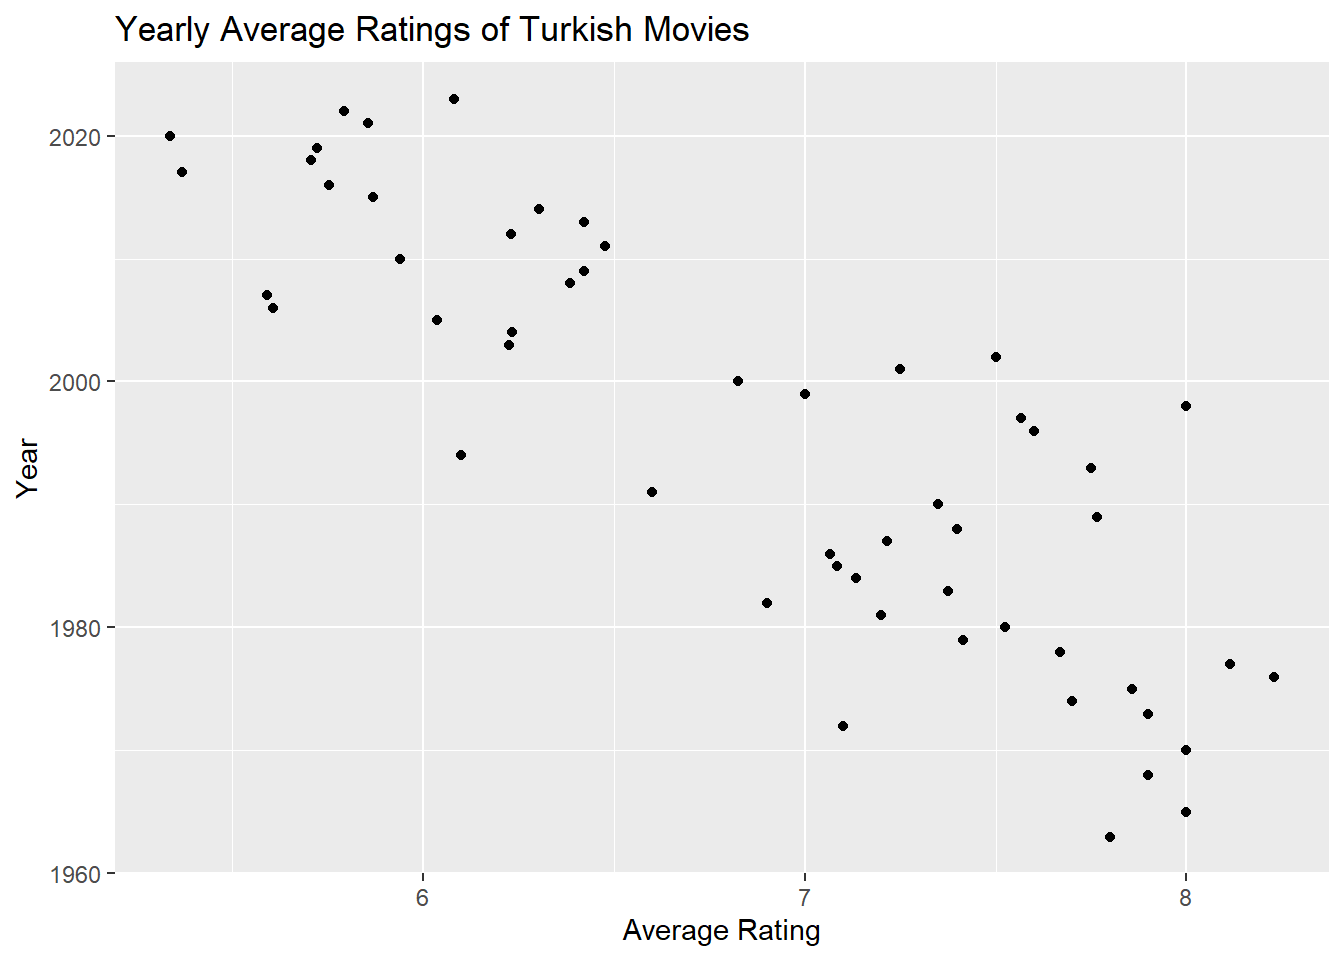
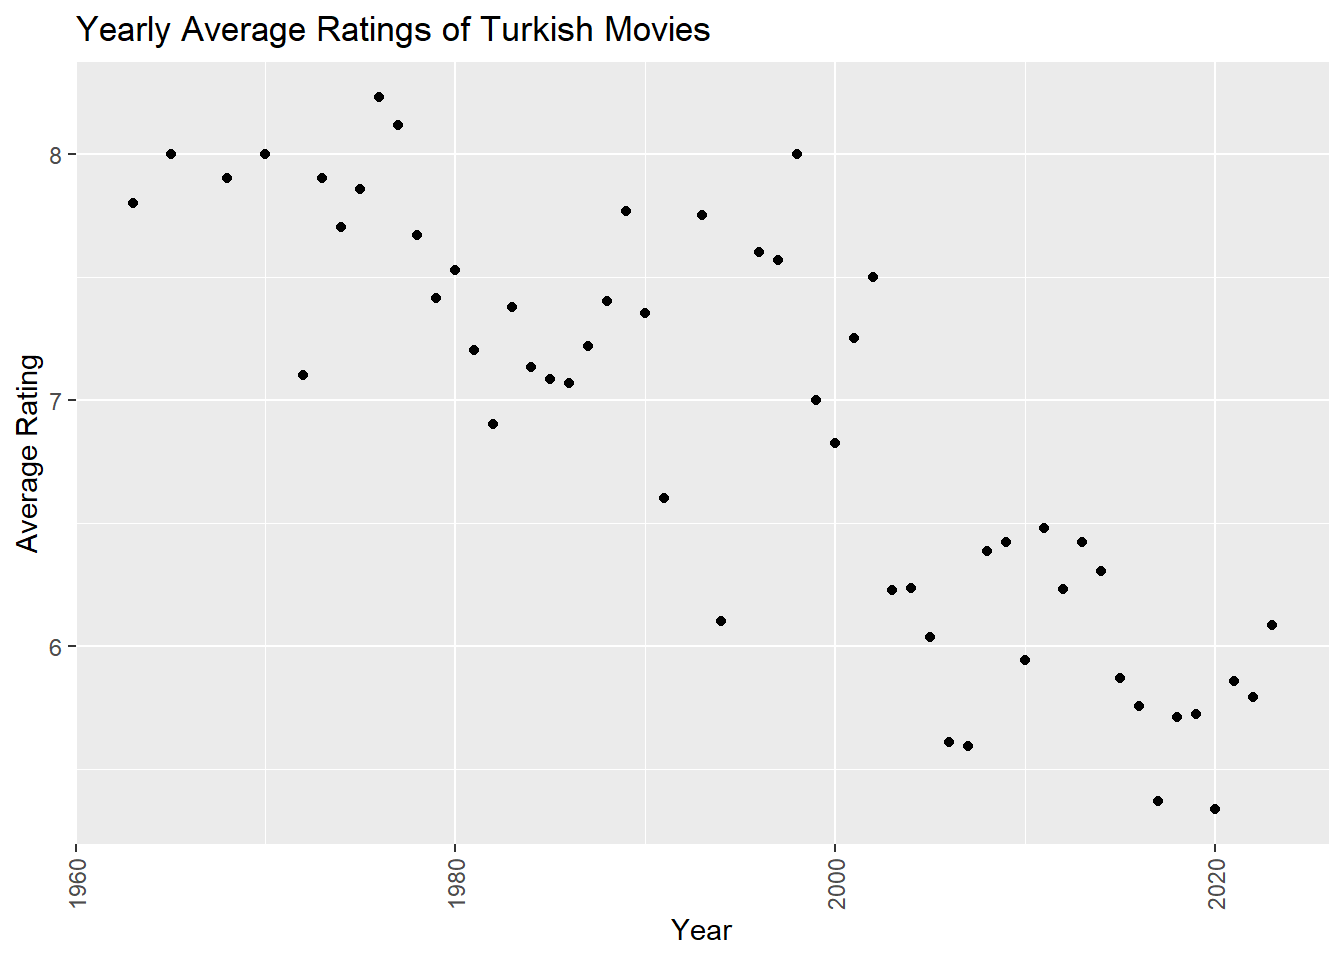
ass34

diff --git a/docs/assignments/assignment-2.html b/docs/assignments/assignment-2.html
@@ -389,9 +389,10 @@ pre > code.sourceCode > span > a:first-child::before { text-decoration: underlin
 <span id="cb9-2"><a href="#cb9-2" aria-hidden="true" tabindex="-1"></a>  <span class="fu">group_by</span>(Year) <span class="sc">%&gt;%</span></span>
 <span id="cb9-3"><a href="#cb9-3" aria-hidden="true" tabindex="-1"></a>  <span class="fu">summarize</span>(<span class="at">avg_rating =</span> <span class="fu">mean</span>(Rating))</span>
 <span id="cb9-4"><a href="#cb9-4" aria-hidden="true" tabindex="-1"></a></span>
-<span id="cb9-5"><a href="#cb9-5" aria-hidden="true" tabindex="-1"></a><span class="fu">ggplot</span>(yearly_avg_ratings, <span class="fu">aes</span>(<span class="at">x =</span> avg_rating, <span class="at">y =</span> Year)) <span class="sc">+</span></span>
+<span id="cb9-5"><a href="#cb9-5" aria-hidden="true" tabindex="-1"></a><span class="fu">ggplot</span>(yearly_avg_ratings, <span class="fu">aes</span>(<span class="at">x =</span> Year, <span class="at">y =</span> avg_rating)) <span class="sc">+</span></span>
 <span id="cb9-6"><a href="#cb9-6" aria-hidden="true" tabindex="-1"></a>  <span class="fu">geom_point</span>() <span class="sc">+</span></span>
-<span id="cb9-7"><a href="#cb9-7" aria-hidden="true" tabindex="-1"></a>  <span class="fu">labs</span>(<span class="at">title =</span> <span class="st">"Yearly Average Ratings of Turkish Movies"</span>, <span class="at">x =</span> <span class="st">"Average Rating"</span>, <span class="at">y =</span> <span class="st">"Year"</span>)</span></code><button title="Copy to Clipboard" class="code-copy-button"><i class="bi"></i></button></pre></div>
+<span id="cb9-7"><a href="#cb9-7" aria-hidden="true" tabindex="-1"></a>  <span class="fu">labs</span>(<span class="at">title =</span> <span class="st">"Yearly Average Ratings of Turkish Movies"</span>, <span class="at">x =</span> <span class="st">"Year"</span>, <span class="at">y =</span> <span class="st">"Average Rating"</span>) <span class="sc">+</span></span>
+<span id="cb9-8"><a href="#cb9-8" aria-hidden="true" tabindex="-1"></a>  <span class="fu">theme</span>(<span class="at">axis.text.x =</span> <span class="fu">element_text</span>(<span class="at">angle =</span> <span class="dv">90</span>, <span class="at">vjust =</span> <span class="fl">0.5</span>, <span class="at">hjust=</span><span class="dv">1</span>))  </span></code><button title="Copy to Clipboard" class="code-copy-button"><i class="bi"></i></button></pre></div>
 <div class="cell-output-display">
 <p><img src="assignment-2_files/figure-html/unnamed-chunk-5-1.png" class="img-fluid" width="672"></p>
 </div>
@@ -400,9 +401,10 @@ pre > code.sourceCode > span > a:first-child::before { text-decoration: underlin
 <span id="cb10-3"><a href="#cb10-3" aria-hidden="true" tabindex="-1"></a>  <span class="fu">summarise</span>(<span class="at">count =</span> <span class="fu">n</span>())</span>
 <span id="cb10-4"><a href="#cb10-4" aria-hidden="true" tabindex="-1"></a></span>
 <span id="cb10-5"><a href="#cb10-5" aria-hidden="true" tabindex="-1"></a></span>
-<span id="cb10-6"><a href="#cb10-6" aria-hidden="true" tabindex="-1"></a><span class="fu">ggplot</span>(movie_counts, <span class="fu">aes</span>(<span class="at">x =</span> count, <span class="at">y =</span> <span class="fu">factor</span>(Year))) <span class="sc">+</span></span>
-<span id="cb10-7"><a href="#cb10-7" aria-hidden="true" tabindex="-1"></a>  <span class="fu">geom_bar</span>(<span class="at">stat =</span> <span class="st">"identity"</span>, <span class="at">fill =</span> <span class="st">"skyblue"</span>) <span class="sc">+</span></span>
-<span id="cb10-8"><a href="#cb10-8" aria-hidden="true" tabindex="-1"></a>  <span class="fu">labs</span>(<span class="at">title =</span> <span class="st">"Number of Movies Over the Years"</span>, <span class="at">x =</span> <span class="st">"Number of Movies"</span>, <span class="at">y =</span> <span class="st">"Year"</span>)</span></code><button title="Copy to Clipboard" class="code-copy-button"><i class="bi"></i></button></pre></div>
+<span id="cb10-6"><a href="#cb10-6" aria-hidden="true" tabindex="-1"></a><span class="fu">ggplot</span>(imdb_data_frame, <span class="fu">aes</span>(<span class="at">x =</span><span class="fu">factor</span>(Year) , <span class="at">y =</span> Rating)) <span class="sc">+</span></span>
+<span id="cb10-7"><a href="#cb10-7" aria-hidden="true" tabindex="-1"></a>  <span class="fu">geom_boxplot</span>(<span class="at">fill =</span> <span class="st">"skyblue"</span>) <span class="sc">+</span></span>
+<span id="cb10-8"><a href="#cb10-8" aria-hidden="true" tabindex="-1"></a>  <span class="fu">labs</span>(<span class="at">title =</span> <span class="st">"Distribution of Ratings Over the Years"</span>, <span class="at">x =</span> <span class="st">"Year"</span>, <span class="at">y =</span> <span class="st">"Rating"</span>)<span class="sc">+</span></span>
+<span id="cb10-9"><a href="#cb10-9" aria-hidden="true" tabindex="-1"></a>  <span class="fu">theme</span>(<span class="at">axis.text.x =</span> <span class="fu">element_text</span>(<span class="at">angle =</span> <span class="dv">90</span>, <span class="at">vjust =</span> <span class="fl">0.5</span>, <span class="at">hjust=</span><span class="dv">1</span>))  </span></code><button title="Copy to Clipboard" class="code-copy-button"><i class="bi"></i></button></pre></div>
 <div class="cell-output-display">
 <p><img src="assignment-2_files/figure-html/unnamed-chunk-5-2.png" class="img-fluid" width="672"></p>
 </div>
